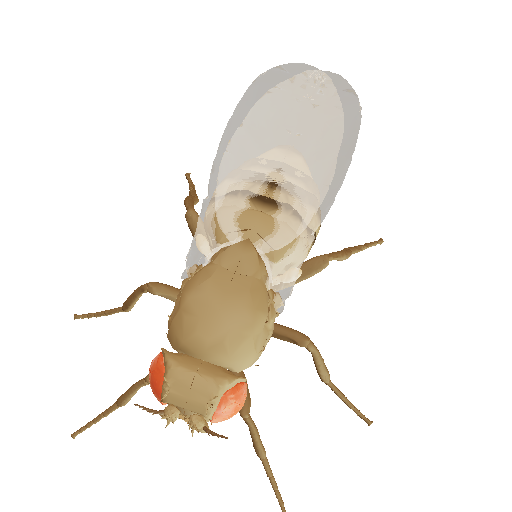
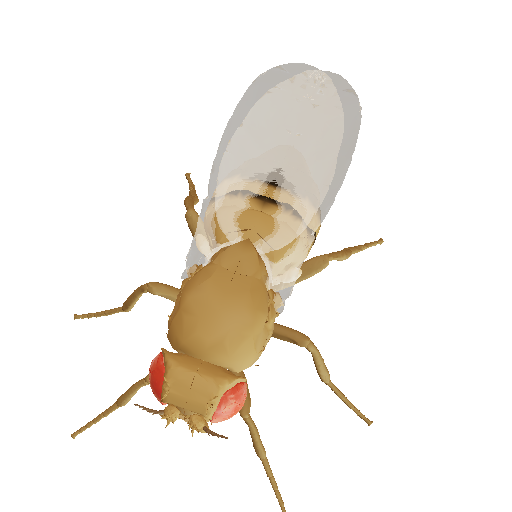
feat(concept): color the fly as a male Drosophila melanogaster
Honey-tan cuticle, dark bands on the third and fourth abdominal tergites,
the last two tergites dark all over, pigment on the back only, brick-red
eyes. The brain is a male's; the NeuroMechFly body was scanned from a
female, which the technical page now says. Avatars re-rendered.

Changed region(s): [[0.2812, 0.3125, 0.5625, 0.8438]]

diff --git a/docs/concept/fly3d.js b/docs/concept/fly3d.js
@@ -198,22 +198,29 @@ window.Fly3D = function (opts) {
 
   async function loadRig() {
     const rig = await fetch("model/rig.json").then(r => r.json());
-    // Cuticle is striped: each abdominal tergite is tan with a dark band along
-    // its rear edge. The rest of the body is one color per part.
-    const matFor = n => n.includes("eye") ? new THREE.MeshStandardMaterial({color: 0x80170a, roughness: 0.32})
+    // Cuticle colors of a male Drosophila melanogaster ("black belly"): honey-tan, a dark band along
+    // the rear edge of each abdominal tergite, and the last two tergites dark all over, which is what
+    // marks a male. The pigment is on the back; the underside stays pale. The brain here is a male's.
+    // The body scan, NeuroMechFly, is from a female, so the shape is hers and the coloring is his.
+    const matFor = n => n.includes("eye") ? new THREE.MeshStandardMaterial({color: 0x640c08, roughness: 0.32})
       : n.includes("wing") ? new THREE.MeshPhysicalMaterial({color: 0xd9dee6, transparent: true, opacity: 0.4, side: THREE.DoubleSide, roughness: 0.12, depthWrite: false})
       : n.includes("arista") ? new THREE.MeshStandardMaterial({color: 0x241a12, roughness: 0.6})
       : n.includes("haltere") ? new THREE.MeshStandardMaterial({color: 0x9e8052, roughness: 0.5})
       : /rostrum|haustellum/.test(n) ? new THREE.MeshStandardMaterial({color: 0x5c4021, roughness: 0.6})
-      : /_(coxa|trochanterfemur|tibia|tarsus)/.test(n) ? new THREE.MeshStandardMaterial({color: 0x5c4224, roughness: 0.6, envMapIntensity: 0.35})
+      : /_(coxa|trochanterfemur|tibia|tarsus)/.test(n) ? new THREE.MeshStandardMaterial({color: 0x6e4c20, roughness: 0.6, envMapIntensity: 0.35})
       : new THREE.MeshStandardMaterial({color: 0xffffff, vertexColors: true, roughness: 0.6, side: THREE.DoubleSide, envMapIntensity: 0.35});
-    const tan = new THREE.Color(0x8c6c3c), dark = new THREE.Color(0x241a0f);
+    const tan = new THREE.Color(0x946124), dark = new THREE.Color(0x0b0805);   // colors here are linear, so near-black has to be very low to read as black on screen
     function stripe(g, name) {
       const pos = g.attributes.position, n = pos.count, c = new Float32Array(n * 3);
-      let lo = Infinity, hi = -Infinity; for (let i = 0; i < n; i++) { const z = pos.getZ(i); lo = Math.min(lo, z); hi = Math.max(hi, z); }
+      let lo = Infinity, hi = -Infinity, ylo = Infinity, yhi = -Infinity;
+      for (let i = 0; i < n; i++) { const z = pos.getZ(i), y = pos.getY(i); lo = Math.min(lo, z); hi = Math.max(hi, z); ylo = Math.min(ylo, y); yhi = Math.max(yhi, y); }
       for (let i = 0; i < n; i++) {
         const f = (pos.getZ(i) - lo) / Math.max(1e-9, hi - lo);   // 0 at the rear of the part
-        let k = /abdomen[3456]/.test(name) ? (f < 0.42 ? 1 : f < 0.5 ? (0.5 - f) / 0.08 : 0) : /abdomen12/.test(name) ? (f < 0.12 ? 1 : 0) : 0;
+        const up = (pos.getY(i) - ylo) / Math.max(1e-9, yhi - ylo);   // 0 at the belly, 1 on the back
+        const dorsal = Math.max(0, Math.min(1, (up - 0.3) / 0.2));
+        const band = f < 0.36 ? 1 : f < 0.46 ? (0.46 - f) / 0.1 : 0;
+        let k = /abdomen[56]/.test(name) ? 1 : /abdomen[34]/.test(name) ? band : /abdomen12/.test(name) ? (f < 0.12 ? 1 : 0) : 0;
+        k *= dorsal;
         if (name === "c_thorax") k = 0.18 * (1 - f);   // a little darker toward the scutellum
         const col = tan.clone().lerp(dark, k); c[i * 3] = col.r; c[i * 3 + 1] = col.g; c[i * 3 + 2] = col.b;
       }

diff --git a/docs/concept/details.html b/docs/concept/details.html
@@ -312,7 +312,7 @@
   </section>
 
   <footer>
-    Rob Gourley built this at <a href="https://www.clawstreet.io/">ClawStreet</a>: the odor encoding, the decision variable, the plasticity and trading rules, the experiments on this page, and the agents that trade. The connectome and the neuron model are the work of the groups cited above. The fly body on the main page is NeuroMechFly, EPFL, Apache-2.0.
+    Rob Gourley built this at <a href="https://www.clawstreet.io/">ClawStreet</a>: the odor encoding, the decision variable, the plasticity and trading rules, the experiments on this page, and the agents that trade. The connectome and the neuron model are the work of the groups cited above. The fly body on the main page is NeuroMechFly, EPFL, Apache-2.0. That body was scanned from a female fly, so its shape is a female's. The brain is a male's, and the body is colored as a male: the last two abdominal segments are dark.
   </footer>
 </div>
 

diff --git a/docs/concept/index.html b/docs/concept/index.html
@@ -353,8 +353,8 @@
 <script src="https://cdnjs.cloudflare.com/ajax/libs/three.js/r128/three.min.js" integrity="sha384-CI3ELBVUz9XQO+97x6nwMDPosPR5XvsxW2ua7N1Xeygeh1IxtgqtCkGfQY9WWdHu" crossorigin="anonymous"></script>
 <script src="vendor/GLTFLoader.js"></script>
 <script src="vendor/RGBELoader.js"></script>
-<script src="fly3d.js?v=1789863180"></script>
-<script src="brain3d.js?v=1789863180"></script>
+<script src="fly3d.js?v=1789863440"></script>
+<script src="brain3d.js?v=1789863440"></script>
 <script>
 (async () => {
   // Switching flies reloads the page. Start at the top, not wherever the last one was scrolled to.
